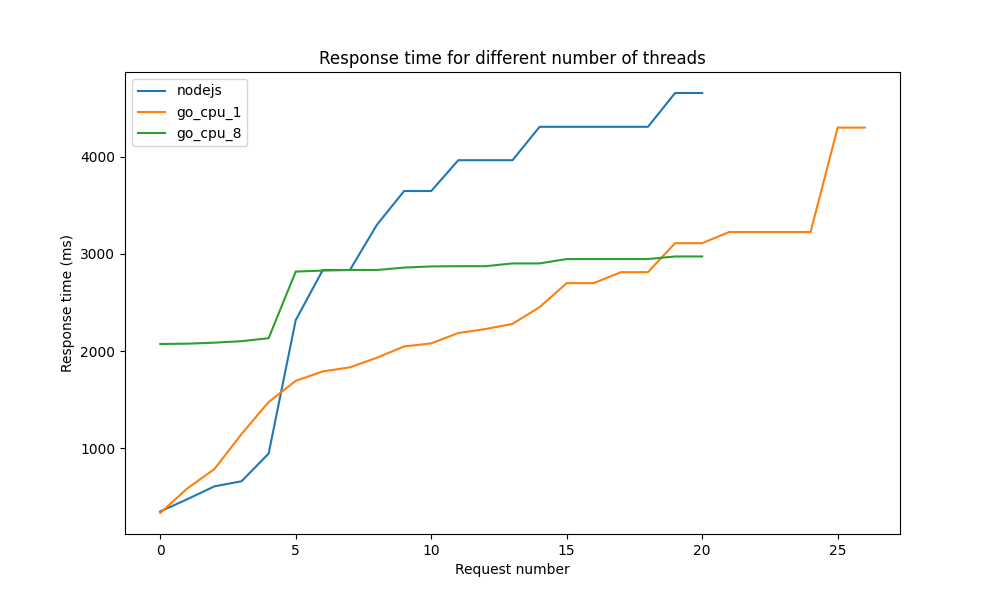
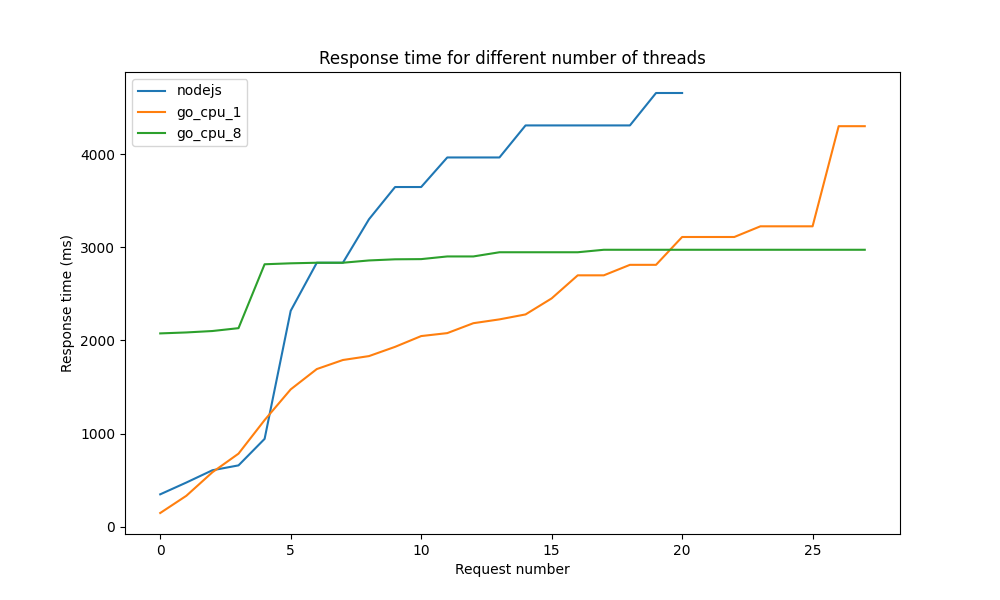
Fix wrong data set

diff --git a/main.py b/main.py
@@ -122,8 +122,9 @@ Requests/sec:      7.97
 Transfer/sec:      1.05KB
 """
 
-data2 = [331.775, 584.703, 784.383, 1144.831, 1474.559, 1692.671, 1789.951, 1831.935, 1931.263, 2046.975, 2078.719, 2185.215, 2226.175,
-         2279.423, 2451.455, 2699.263, 2699.263, 2811.903, 2811.903, 3110.911, 3110.911, 3225.599, 3225.599, 3225.599, 3225.599, 4300.799, 4300.799]
+data2 = [147.071, 331.775, 584.703, 784.383, 1144.831, 1474.559, 1692.671, 1789.951, 1831.935, 1931.263,
+         2046.975, 2078.719, 2185.215, 2226.175, 2279.423, 2451.455, 2699.263, 2699.263, 2811.903, 2811.903,
+         3110.911, 3110.911, 3110.911, 3225.599, 3225.599, 3225.599, 4300.799, 4300.799]
 
 # go cpu 8
 """
@@ -181,8 +182,9 @@ Requests/sec:      6.24
 Transfer/sec:     842.55B
 """
 
-data3 = [2072.218, 2075.647, 2085.887, 2101.247, 2131.967, 2818.047, 2828.287, 2834.431, 2834.431, 2859.007,
-         2871.295, 2873.343, 2873.343, 2902.015, 2902.015, 2947.071, 2947.071, 2947.071, 2947.071, 2973.695, 2973.695]
+data3 = [2075.647, 2085.887, 2101.247, 2131.967, 2818.047, 2828.287, 2834.431, 2834.431, 2859.007, 2871.295,
+         2873.343, 2902.015, 2902.015, 2947.071, 2947.071, 2947.071, 2947.071, 2973.695, 2973.695, 2973.695,
+         2973.695, 2973.695, 2973.695, 2973.695, 2973.695, 2973.695, 2973.695, 2973.695]
 
 # create the graph
 
@@ -206,5 +208,3 @@ plt.title('Response time for different number of threads')
 plt.savefig('graph.png')
 
 plt.show()
-
-
